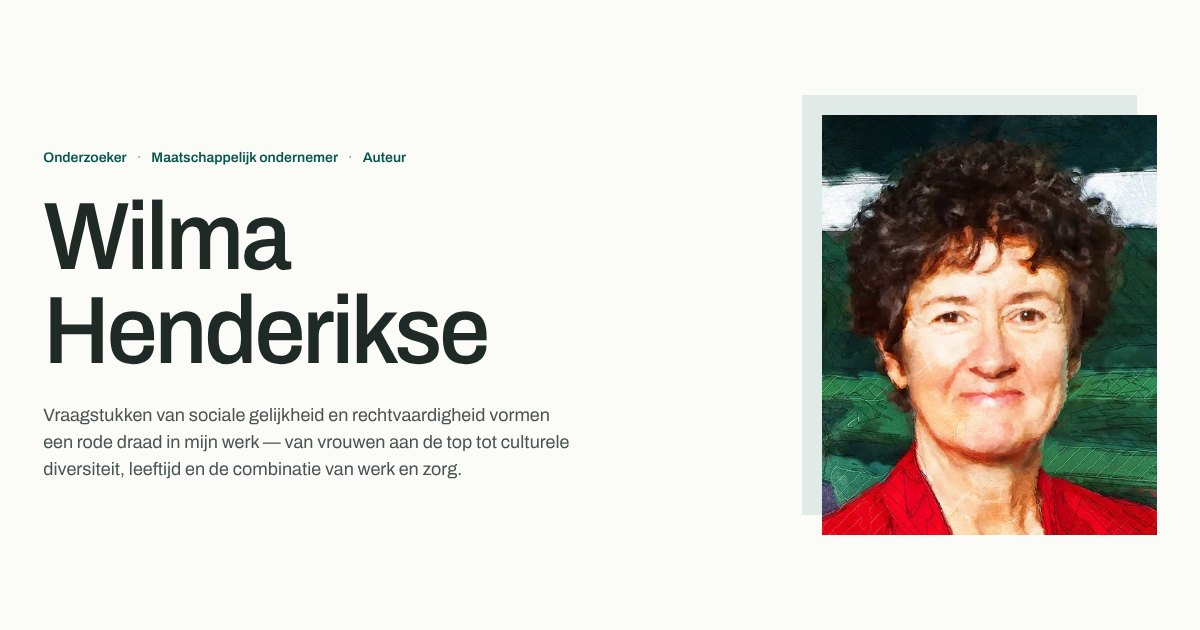
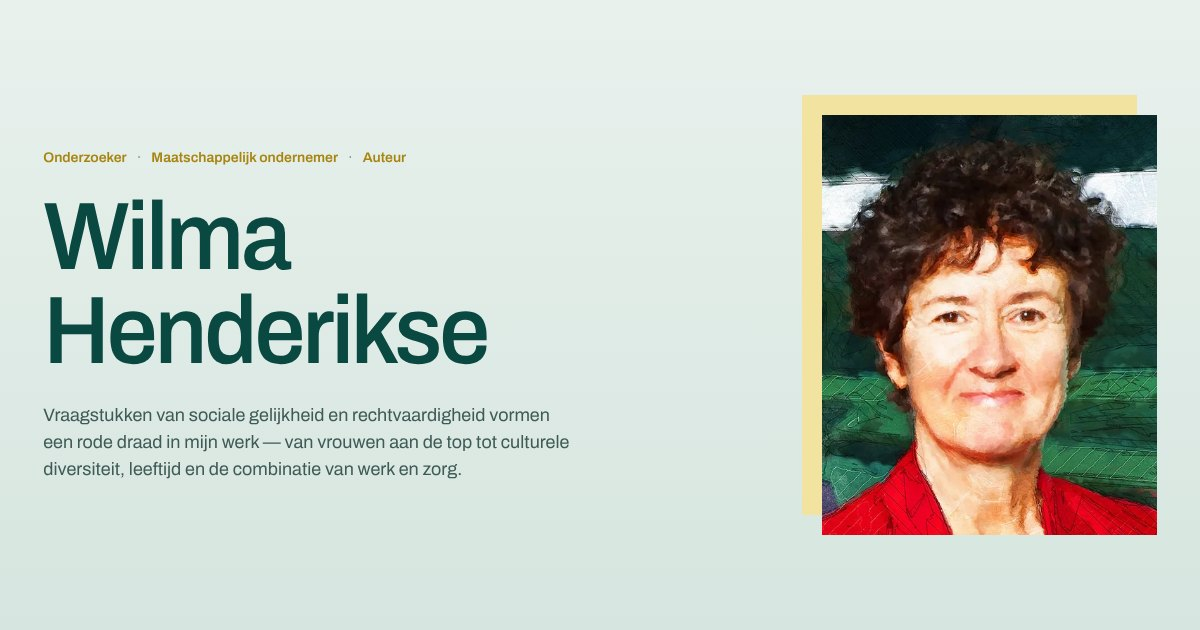
More colour, tonally: pale teal paper with layered teal and yellow tints
The page is a pale teal paper instead of white; sections are layers of
the same two hues — teal from mist to deep, yellow from cream to straw —
with small steps between neighbours. Headings in deep teal, labels in a
muted gold. The Monitor panel is a teal gradient with yellow accents.

Claude-Session: https://claude.ai/code/session_01D6jV8cr4C33ZzgwpJmFH6V

diff --git a/src/styles.css b/src/styles.css
@@ -1,25 +1,29 @@
 /* Wilma Henderikse — one stylesheet, tokens first.
    One sans family (Archivo, variable width + weight), set quietly: moderate sizes,
-   medium weights, hierarchy from scale, colour and space. Colour works in layers rather
-   than blocks: warm-white paper, soft teal-tinted panels, teal hairlines and labels, and
-   yellow only as a small mark (a short bar above a title, an underline on hover). One
-   deep-teal moment: the footer. An editorial grid with a label column on the left. */
+   medium weights, hierarchy from scale, colour and space. Colour is everywhere but
+   tonal: the page itself is a pale teal paper, and sections are layers of the same two
+   hues — teal from mist to deep, yellow from cream to straw — with small differences
+   between neighbours. Headings are deep teal, not black; labels are a muted gold.
+   An editorial grid with a label column on the left. */
 
 :root {
-  --paper: #fbfbf8;
-  --paper-2: #f3f5f2;
-  --white: #ffffff;
+  --paper: #e9f1ed;
+  --paper-2: #dde9e4;
+  --white: #f6faf8;
   --teal: #08574f;
   --teal-deep: #0a4842;
-  --teal-soft: #e0ebe7;
-  --teal-mist: #eef3f0;
+  --teal-mid: #1e6b62;
+  --teal-soft: #c9ddd6;
+  --teal-mist: #d6e5df;
   --yellow: #fcd21d;
-  --yellow-soft: #fbf1c9;
-  --ink: #1f2926;
-  --ink-2: #4a5552;
-  --muted: #7b8582;
-  --hair: rgba(8, 87, 79, 0.16);
-  --hair-soft: rgba(8, 87, 79, 0.09);
+  --yellow-soft: #f3e3a0;
+  --yellow-cream: #f4ecc9;
+  --gold: #a7850f;
+  --ink: #16332e;
+  --ink-2: #3f5b55;
+  --muted: #6c847e;
+  --hair: rgba(8, 87, 79, 0.22);
+  --hair-soft: rgba(8, 87, 79, 0.12);
 
   --font: 'Archivo', 'Helvetica Neue', Arial, sans-serif;
 
@@ -85,7 +89,7 @@ ol {
 }
 
 ::selection {
-  background: var(--yellow-soft);
+  background: var(--yellow);
   color: var(--ink);
 }
 
@@ -218,11 +222,36 @@ ol {
 .btn--quiet {
   border-color: var(--hair);
   color: var(--teal);
-  background: rgba(255, 255, 255, 0.6);
+  background: rgba(255, 255, 255, 0.4);
 }
 
 .btn--quiet:hover {
   border-color: var(--teal);
+}
+
+.feature .btn--teal {
+  background: var(--yellow);
+  border-color: var(--yellow);
+  color: var(--teal-deep);
+}
+
+.feature .btn--teal span {
+  color: var(--teal-deep);
+}
+
+.feature .btn--teal:hover {
+  background: #fff;
+  border-color: #fff;
+}
+
+.feature .btn--quiet {
+  border-color: rgba(255, 255, 255, 0.4);
+  color: #fff;
+  background: transparent;
+}
+
+.feature .btn--quiet:hover {
+  border-color: #fff;
 }
 
 .arrow-link {
@@ -254,6 +283,11 @@ ol {
 }
 
 .section--tint {
+  background: var(--yellow-cream);
+  border-top: 0;
+}
+
+.section--deep {
   background: var(--paper-2);
   border-top: 0;
 }
@@ -268,7 +302,7 @@ ol {
   grid-column: 1 / 3;
   font-size: 14px;
   font-weight: 600;
-  color: var(--teal);
+  color: var(--gold);
   padding-top: 4px;
 }
 
@@ -277,6 +311,7 @@ ol {
 }
 
 .section__title {
+  color: var(--teal-deep);
   max-width: 20em;
   margin-bottom: clamp(36px, 4.5vw, 56px);
   font-size: clamp(28px, 3.1vw, 42px);
@@ -307,7 +342,7 @@ ol {
   position: sticky;
   top: 0;
   z-index: 50;
-  background: rgba(251, 251, 248, 0.92);
+  background: rgba(233, 241, 237, 0.92);
   -webkit-backdrop-filter: blur(10px);
   backdrop-filter: blur(10px);
   transition: box-shadow 0.2s;
@@ -457,6 +492,7 @@ ol {
 /* ── hero ── */
 .hero {
   padding: clamp(32px, 5vw, 80px) 0 clamp(64px, 8vw, 112px);
+  background: linear-gradient(180deg, var(--paper) 0%, var(--teal-mist) 100%);
 }
 
 .hero__grid {
@@ -476,7 +512,7 @@ ol {
   gap: 6px 0;
   font-size: 14px;
   font-weight: 600;
-  color: var(--teal);
+  color: var(--gold);
 }
 
 .hero__roles li + li::before {
@@ -493,6 +529,7 @@ ol {
   font-weight: 540;
   line-height: 0.98;
   letter-spacing: -0.032em;
+  color: var(--teal-deep);
 }
 
 .hero__lede {
@@ -517,7 +554,7 @@ ol {
   position: absolute;
   z-index: -1;
   inset: 0 20px 20px 0;
-  background: var(--teal-soft);
+  background: var(--yellow-soft);
 }
 
 .hero__portrait img {
@@ -554,6 +591,7 @@ ol {
 /* ── featured: the monitor — a soft teal panel ── */
 .feature {
   padding: 0 0 clamp(72px, 9vw, 128px);
+  background: var(--teal-mist);
 }
 
 .feature__panel {
@@ -562,8 +600,8 @@ ol {
   gap: 24px;
   align-items: center;
   padding: clamp(28px, 4vw, 56px);
-  background: var(--teal-mist);
-  border: 1px solid var(--hair-soft);
+  background: linear-gradient(160deg, var(--teal-mid) 0%, var(--teal) 55%, var(--teal-deep) 100%);
+  color: #e6f0ec;
 }
 
 .feature__text {
@@ -573,7 +611,7 @@ ol {
 .feature__label {
   font-size: 14px;
   font-weight: 600;
-  color: var(--teal);
+  color: var(--yellow);
   margin-bottom: 20px;
 }
 
@@ -583,17 +621,17 @@ ol {
   font-weight: 560;
   line-height: 1.08;
   letter-spacing: -0.022em;
-  color: var(--teal-deep);
+  color: #fff;
 }
 
 .feature__title span {
   display: block;
   font-weight: 400;
-  color: var(--teal);
+  color: var(--yellow-soft);
 }
 
 .feature__body {
-  color: var(--ink-2);
+  color: #cfe0da;
   max-width: 30em;
 }
 
@@ -601,14 +639,13 @@ ol {
   grid-column: 6 / 13;
   display: block;
   margin-left: 24px;
-  border: 1px solid var(--hair);
-  background: #fff;
-  padding: 6px;
-  transition: border-color 0.2s;
+  background: rgba(255, 255, 255, 0.14);
+  padding: 8px;
+  transition: background-color 0.2s;
 }
 
 .feature__preview:hover {
-  border-color: var(--teal);
+  background: rgba(255, 255, 255, 0.26);
 }
 
 .feature__preview img {
@@ -650,6 +687,7 @@ ol {
   font-size: clamp(20px, 1.9vw, 24px);
   font-weight: 560;
   letter-spacing: -0.012em;
+  color: var(--teal-deep);
   background: linear-gradient(var(--yellow), var(--yellow)) 0 100% / 0 2px no-repeat;
   transition: background-size 0.3s var(--ease);
   width: fit-content;
@@ -698,8 +736,8 @@ ol {
   position: relative;
   aspect-ratio: 3 / 4;
   overflow: hidden;
-  background: var(--paper-2);
-  outline: 1px solid rgba(31, 41, 38, 0.12);
+  background: var(--teal-mist);
+  outline: 1px solid rgba(8, 87, 79, 0.18);
   outline-offset: -1px;
   transition: transform 0.35s var(--ease);
 }
@@ -763,8 +801,8 @@ ol {
 }
 
 .cover--leeftijd {
-  background: var(--paper-2);
-  color: var(--ink);
+  background: var(--teal-mid);
+  color: #fff;
 }
 
 .cover--werkzorg {
@@ -773,8 +811,8 @@ ol {
 }
 
 .cover--beleid {
-  background: var(--white);
-  color: var(--ink);
+  background: var(--yellow-cream);
+  color: var(--teal-deep);
 }
 
 /* ── publication card ── */
@@ -794,7 +832,7 @@ ol {
 
 .pub__link:hover .pub__title,
 .pub__link:focus-visible .pub__title {
-  color: var(--teal);
+  color: var(--teal-mid);
 }
 
 .pub__body {
@@ -815,6 +853,7 @@ ol {
 }
 
 .pub__title {
+  color: var(--teal-deep);
   font-size: 17px;
   font-weight: 580;
   line-height: 1.3;
@@ -892,7 +931,7 @@ ol {
 /* ── quote ── */
 .quote {
   padding: clamp(72px, 9vw, 120px) 0;
-  border-top: 1px solid var(--hair-soft);
+  background: var(--teal-soft);
 }
 
 .quote__grid {
@@ -926,7 +965,7 @@ ol {
   margin-top: 22px;
   font-size: 14px;
   font-weight: 600;
-  color: var(--muted);
+  color: var(--gold);
 }
 
 @media (max-width: 760px) {
@@ -980,7 +1019,7 @@ ol {
 
 /* ── contact: a pale yellow layer ── */
 .contact {
-  background: var(--yellow-soft);
+  background: linear-gradient(180deg, var(--yellow-cream) 0%, var(--yellow-soft) 100%);
   padding: clamp(72px, 9vw, 128px) 0;
 }
 
@@ -988,6 +1027,7 @@ ol {
   font-size: clamp(22px, 2.2vw, 30px);
   font-weight: 540;
   letter-spacing: -0.015em;
+  color: var(--teal-deep);
 }
 
 .contact__title::before {
@@ -1052,6 +1092,7 @@ ol {
 /* ── publicaties page ── */
 .page-head {
   padding: clamp(36px, 5vw, 72px) 0 clamp(28px, 4vw, 48px);
+  background: linear-gradient(180deg, var(--paper) 0%, var(--teal-mist) 100%);
 }
 
 .page-head__grid {
@@ -1067,6 +1108,7 @@ ol {
   font-weight: 560;
   line-height: 1.02;
   letter-spacing: -0.028em;
+  color: var(--teal-deep);
 }
 
 .page-lede {
@@ -1088,7 +1130,7 @@ ol {
   position: sticky;
   top: var(--header-h);
   z-index: 20;
-  background: rgba(251, 251, 248, 0.94);
+  background: rgba(233, 241, 237, 0.94);
   -webkit-backdrop-filter: blur(10px);
   backdrop-filter: blur(10px);
   border-top: 1px solid var(--hair);
@@ -1174,9 +1216,9 @@ ol {
 }
 
 .chip.is-active {
-  background: var(--teal-soft);
+  background: var(--teal);
   border-color: var(--teal);
-  color: var(--teal-deep);
+  color: #fff;
 }
 
 @media (max-width: 760px) {

diff --git a/index.html b/index.html
@@ -5,7 +5,7 @@
     <meta name="viewport" content="width=device-width, initial-scale=1" />
     <title>Wilma Henderikse — onderzoeker, maatschappelijk ondernemer, auteur</title>
     <meta name="description" content="Wilma Henderikse onderzoekt sociale gelijkheid op de werkvloer: vrouwen naar de top, culturele diversiteit, leeftijd en de combinatie van werk en zorg." />
-    <meta name="theme-color" content="#fbfbf8" />
+    <meta name="theme-color" content="#e9f1ed" />
     <script>document.documentElement.classList.add('js')</script>
     <link rel="icon" type="image/svg+xml" href="/favicon.svg" />
     <meta property="og:type" content="website" />

diff --git a/src/pages/Home.jsx b/src/pages/Home.jsx
@@ -147,7 +147,7 @@ function Quote() {
 
 function About() {
   return (
-    <Section id="over" label="Over Wilma" title="Een leven lang bezig met gelijke kansen.">
+    <Section id="over" label="Over Wilma" title="Een leven lang bezig met gelijke kansen." className="section--deep">
       <div className="about">
         <figure className="about__photo reveal">
           <img
